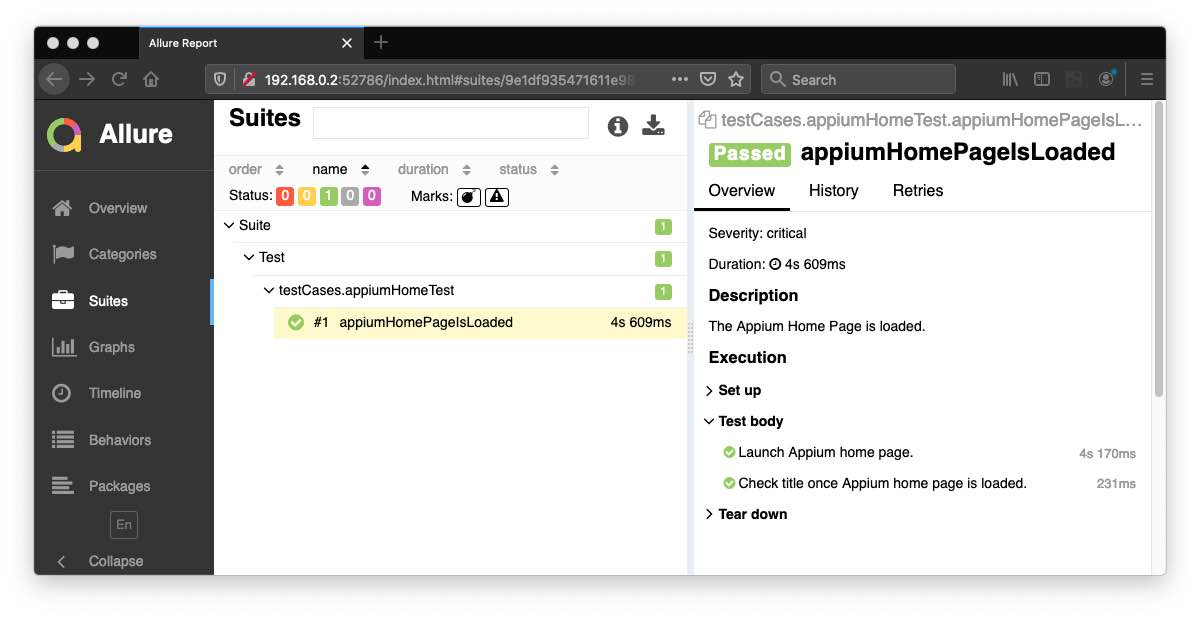
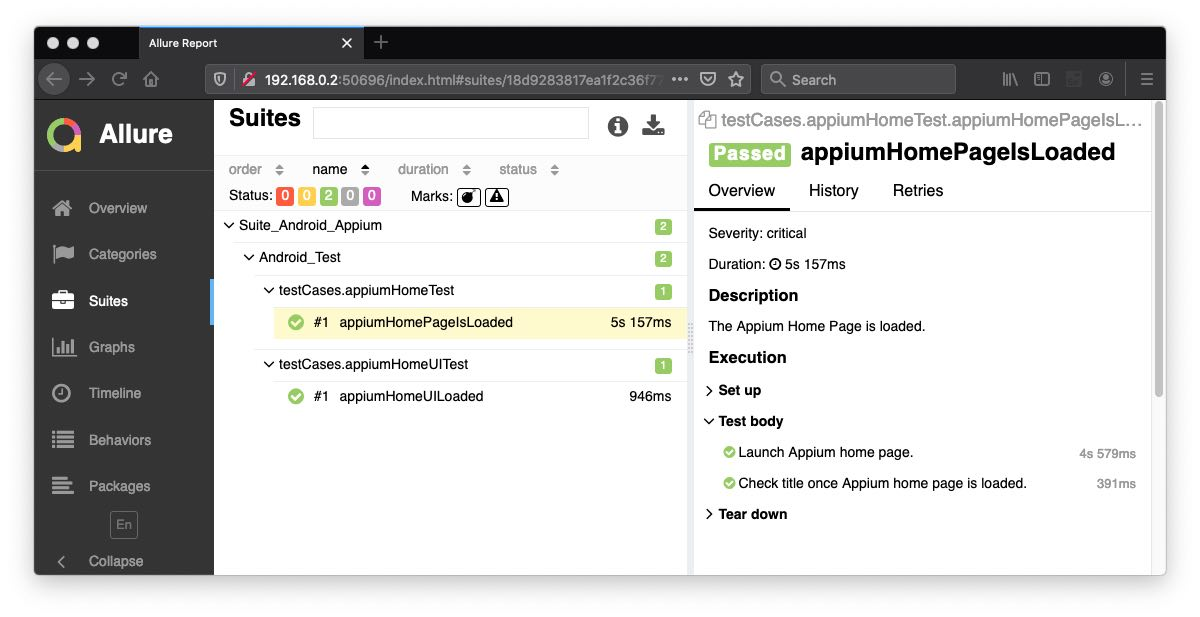
further work to second android project

diff --git a/androidAppiumTest/src/main/java/mainPages/appiumHomeUIPage.java b/androidAppiumTest/src/main/java/mainPages/appiumHomeUIPage.java
@@ -1,0 +1,71 @@
+package mainPages;
+
+import org.openqa.selenium.By;
+import org.openqa.selenium.WebElement;
+import org.testng.Assert;
+
+import io.appium.java_client.android.AndroidDriver;
+import io.qameta.allure.Step;
+ 
+public class appiumHomeUIPage extends basePage{
+ 
+  //*********Web Elements*********
+  By DownloadButton = By.id("downloadLink");
+  By AppiumNavbar = By.className("navbar-brand");
+  By HamburgerIcon = By.className("navbar-toggle");
+  By HamburgerMenu = By.id("bs-example-navbar-collapse-1");
+  By ProjectOne = By.id("projectOne");
+  By ProjectTwo = By.id("projectTwo");
+  By ProjectThree = By.id("projectThree");
+  By ProjectFour = By.id("projectFour");
+  By ProjectFive = By.id("projectFive");
+  By ProjectSix = By.id("projectSix");
+    
+  //*********Web Page Class Constructor*********
+  public appiumHomeUIPage(AndroidDriver<WebElement> mobiledriver) {
+	basePage.mobiledriver = mobiledriver;
+  }
+
+  //*********Page Methods*********
+  @Step ("Appium menu is shown.")
+  public void appium_menu_toolbar_is_shown() {
+	// Wait so that the app loads completely before starting with element identification
+	waitForElement(AppiumNavbar, 30);
+ 	String actualString = mobiledriver.findElement(AppiumNavbar).getText();
+  	// assertEquals that two Strings are equal
+    Assert.assertEquals(actualString, "Appium", "Test Status: getText assertion failed!");
+  	System.out.println("Test Status: appium menu is shown");
+  }
+
+  @Step ("Verify hamburger menu.")
+  public void click_on_hamburger_icon_and_verify() {
+	// Wait so that the app loads completely before starting with element identification
+	waitForElement(HamburgerIcon, 30);
+	//Find element by Class Name
+	mobiledriver.findElement(HamburgerIcon).click();
+	// Wait so that the app loads completely before starting with element identification
+	waitForElement(HamburgerMenu, 30);
+	//Find element by Class Name
+	mobiledriver.findElement(By.xpath("//*[contains(text(), 'Home')]"));
+	mobiledriver.findElement(By.xpath("//*[contains(text(), 'Introduction')]"));
+	mobiledriver.findElement(By.xpath("//*[contains(text(), 'Get started')]"));
+	mobiledriver.findElement(By.xpath("//*[contains(text(), 'History')]"));
+	mobiledriver.findElement(By.xpath("//*[contains(text(), 'Get Involved!')]"));
+	mobiledriver.findElement(By.xpath("//*[contains(text(), 'Documentation')]"));
+	mobiledriver.findElement(By.xpath("//*[contains(text(), 'Books & Resources')]"));
+	//Find element by Class Name
+	mobiledriver.findElement(HamburgerIcon).click();
+  	System.out.println("Test Status: appium hamburger icon is verified");
+  }
+  
+  @Step ("Check the Appium download button is shown.")
+  public void appium_download_button_is_shown() {
+	// Wait so that the app loads completely before starting with element identification
+	waitForElement(DownloadButton, 30);
+  	String actualString = mobiledriver.findElement(DownloadButton).getText();
+  	// assertTrue(boolean condition) Asserts that a condition is true
+  	Assert.assertTrue(actualString.contains("Download Appium"));
+  	// assertTrue(boolean condition) Asserts that a condition is true
+  	System.out.println("Test Status: button \"" + actualString + "\" is shown");
+  }
+}

diff --git a/androidAppiumTest/src/main/java/mainPages/appiumHomePage.java b/androidAppiumTest/src/main/java/mainPages/appiumHomePage.java
@@ -1,34 +1,14 @@
 package mainPages;
 
-import org.openqa.selenium.By;
+import org.openqa.selenium.WebElement;
 import org.testng.Assert;
 import io.appium.java_client.android.AndroidDriver;
 import io.qameta.allure.Step;
  
 public class appiumHomePage extends basePage{
- 
-  //*********Web Elements*********
-  By GithubBody = By.id("myGithubPages");
-  By HeaderButtons = By.xpath("//*[@id='headerButtons']//a");
-  By GithubButton = By.id("githubButton");
-  By BloggerButton = By.id("bloggerButton");
-  By EmailMeButton = By.id("emailMeButton");
-  By ProjectsContainer = By.className("project");
-  By PersonalProject = By.xpath("//*[@id='personalProjectButtons']//li//a");
-  By ClassProject = By.xpath("//*[@id='classProjectButtons']//li//a");
-  By ProjectOne = By.id("projectOne");
-  By ProjectTwo = By.id("projectTwo");
-  By ProjectThree = By.id("projectThree");
-  By ProjectFour = By.id("projectFour");
-  By ProjectFive = By.id("projectFive");
-  By ProjectSix = By.id("projectSix");
-  By AboutMeContainer = By.className("aboutme");
-  By GridrightIcons = By.xpath("//*[@id='gridrightIcons']//img");
-  By ExperienceContainer = By.className("experience");
-  By CopyrightContainer = By.className("footer");
     
   //*********Web Page Class Constructor*********
-  public appiumHomePage(AndroidDriver<?> mobiledriver) {
+  public appiumHomePage(AndroidDriver<WebElement> mobiledriver) {
   	  basePage.mobiledriver = mobiledriver;
 	}
 
@@ -37,7 +17,7 @@ public class appiumHomePage extends basePage{
   public void launch_appium_home_page() {
   	// open browser with desried URL
 	mobiledriver.get(basePage.mURL);
-  	System.out.println("Test Status: URL loaded: "+ basePage.mURL);
+  	System.out.println("Test Status: url loaded: "+ basePage.mURL);
   }
 	
   @Step ("Check title once Appium home page is loaded.")
@@ -45,7 +25,7 @@ public class appiumHomePage extends basePage{
     //Get page title
     String title = mobiledriver.getTitle();
     //Print page's title
-    System.out.println("Test Status: Page Title \"" + title + "\"");
+    System.out.println("Test Status: page title \"" + title + "\"");
     //Assertion
 	Assert.assertEquals(mobiledriver.getCurrentUrl(), "http://appium.io/", "URL Mismatch");
 	Assert.assertEquals(mobiledriver.getTitle(), "Appium: Mobile App Automation Made Awesome.", "Title Mismatch");

diff --git a/androidAppiumTest/src/test/java/testCases/baseTest.java b/androidAppiumTest/src/test/java/testCases/baseTest.java
@@ -8,6 +8,7 @@ import java.net.MalformedURLException;
 import java.net.URL;
 
 import org.openqa.selenium.Capabilities;
+import org.openqa.selenium.WebElement;
 import org.openqa.selenium.remote.DesiredCapabilities;
 import org.openqa.selenium.remote.RemoteWebDriver;
 import org.testng.annotations.AfterTest;
@@ -16,7 +17,7 @@ import io.appium.java_client.android.AndroidDriver;
 
 public class baseTest
 {
-	public static AndroidDriver<?> mobiledriver;
+	public static AndroidDriver<WebElement> mobiledriver;
 
 	@BeforeTest
 	public void beforeTest( ) throws MalformedURLException {
@@ -57,8 +58,8 @@ public class baseTest
 			mobiledriver.close();
 			// closing the WebDriver
 			mobiledriver.quit();
-			System.out.println("Browser Status: Closing web driver");
+			System.out.println("Test Status: Closing web driver");
 		} catch (Exception e) { }	
-		System.out.println("Allure Status: Execute from terminal \"allure serve allure-results\"");
+		System.out.println("Allure Report: Execute \"allure serve allure-results\" from terminal");
 	}
 }

diff --git a/androidAppiumTest/src/test/java/testCases/appiumHomeUITest.java b/androidAppiumTest/src/test/java/testCases/appiumHomeUITest.java
@@ -1,0 +1,28 @@
+package testCases;
+ 
+import org.testng.annotations.Test;
+
+import io.qameta.allure.Description;
+import io.qameta.allure.Feature;
+import io.qameta.allure.Severity;
+import io.qameta.allure.SeverityLevel;
+import mainPages.appiumHomeUIPage;
+ 
+public class appiumHomeUITest extends baseTest{
+	
+	@Test (priority = 0)
+	@Severity (SeverityLevel.CRITICAL) // BLOCKER, CRITICAL, NORMAL, MINOR, TRIVIAL
+	@Feature ("Appium Home UI")
+	@Description ("The Appium Home UI are loaded.")
+    public void appiumHomeUILoaded () {
+ 
+        //*************PAGE INSTANTIATIONS*************
+		appiumHomeUIPage appiumHomeUIest = new appiumHomeUIPage(mobiledriver);
+ 
+        //*************PAGE METHODS********************
+		appiumHomeUIest.appium_menu_toolbar_is_shown();
+		appiumHomeUIest.click_on_hamburger_icon_and_verify();
+		appiumHomeUIest.appium_download_button_is_shown();
+
+    }
+}

diff --git a/androidAppiumTest/src/main/java/mainPages/basePage.java b/androidAppiumTest/src/main/java/mainPages/basePage.java
@@ -1,15 +1,15 @@
 package mainPages;
- 
+
 import org.openqa.selenium.By;
+import org.openqa.selenium.WebElement;
 import org.openqa.selenium.interactions.Actions;
 import org.openqa.selenium.support.ui.ExpectedConditions;
 import org.openqa.selenium.support.ui.WebDriverWait;
-
 import io.appium.java_client.android.AndroidDriver;
  
 public class basePage {
        
-	public static AndroidDriver<?> mobiledriver;
+	public static AndroidDriver<WebElement> mobiledriver;
     public static String mURL = "http://appium.io/";
 	
     public static void waitForElement(By id, int time) {
@@ -22,5 +22,4 @@ public class basePage {
     	Actions actions = new Actions(mobiledriver);
     	actions.moveToElement(mobiledriver.findElement(id)).perform();
     }
- 
 }

diff --git a/androidAppiumTest/README.md b/androidAppiumTest/README.md
@@ -17,7 +17,7 @@ To run the test;
 - launch either Android Emulator or Android Device depending on setup.
 - right click the __testNG.xml__ file, and then select __Run As > TestNG Suite__.
 
-### Allure Rport for Appium Test
+### Allure Report for Appium Test
 <img src="appiumAllureReport.jpg">
 
 #### [Return: Automation Selenium README](../README.md)
